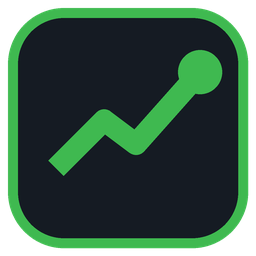
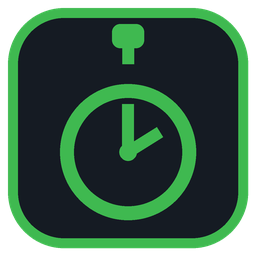
İkon tasarımını kronometreye çevir
Trend çizgisi motifi bir zaman takip uygulaması için belirsizdi;
aynı koyu/yeşil palette kalarak kurma düğmesi, gövde ve akrep/yelkovanlı
bir kronometre simgesine geçildi. .exe, tepsi, favicon ve kenar çubuğu
markası tek kaynaktan (varliklar/ikon.svg + araclar/ikon_uret.py) güncel
tutuluyor; README ekran görüntüleri yeni ikonla tazelendi.

Changed region(s): [[0.1875, 0.1875, 0.875, 0.875], [0.4375, 0.0938, 0.5938, 0.25]]

diff --git a/templates/taban.html b/templates/taban.html
@@ -14,9 +14,12 @@
       <svg viewBox="0 0 64 64" width="22" height="22" aria-hidden="true">
         <rect x="2" y="2" width="60" height="60" rx="14" fill="#151b23"/>
         <rect x="2" y="2" width="60" height="60" rx="14" fill="none" stroke="#3fb950" stroke-width="2.5"/>
-        <path d="M14 42 L26 30 L34 36 L50 18" fill="none" stroke="#3fb950"
-              stroke-width="5.5" stroke-linecap="round" stroke-linejoin="round"/>
-        <circle cx="50" cy="18" r="5.5" fill="#3fb950"/>
+        <rect x="28" y="6" width="8" height="6" rx="2" fill="#3fb950"/>
+        <line x1="32" y1="12" x2="32" y2="16" stroke="#3fb950" stroke-width="3" stroke-linecap="round"/>
+        <circle cx="32" cy="38" r="17" fill="none" stroke="#3fb950" stroke-width="3.5"/>
+        <line x1="32" y1="38" x2="32" y2="26" stroke="#3fb950" stroke-width="3" stroke-linecap="round"/>
+        <line x1="32" y1="38" x2="40" y2="33" stroke="#3fb950" stroke-width="3" stroke-linecap="round"/>
+        <circle cx="32" cy="38" r="2.2" fill="#3fb950"/>
       </svg>
       <span>Gelişim Takip</span>
     </div>

diff --git a/araclar/ikon_uret.py b/araclar/ikon_uret.py
@@ -31,14 +31,35 @@ def _yuksek_cozunurluklu_gorsel():
         [olcekle(2), olcekle(2), olcekle(62), olcekle(62)],
         radius=olcekle(14), fill=RENK_ZEMIN, outline=RENK_VURGU, width=olcekle(2.5),
     )
-    cizim.line(
-        [(olcekle(14), olcekle(42)), (olcekle(26), olcekle(30)),
-         (olcekle(34), olcekle(36)), (olcekle(50), olcekle(18))],
-        fill=RENK_VURGU, width=olcekle(5.5), joint="curve",
+    # Kronometre kurma düğmesi (crown) ve gövdeye bağlayan sap.
+    cizim.rounded_rectangle(
+        [olcekle(28), olcekle(6), olcekle(36), olcekle(12)],
+        radius=olcekle(2), fill=RENK_VURGU,
     )
-    r = olcekle(5.5)
+    cizim.line(
+        [(olcekle(32), olcekle(12)), (olcekle(32), olcekle(16))],
+        fill=RENK_VURGU, width=olcekle(3),
+    )
+    # Kronometre gövdesi.
+    r_govde = olcekle(17)
     cizim.ellipse(
-        [olcekle(50) - r, olcekle(18) - r, olcekle(50) + r, olcekle(18) + r],
+        [olcekle(32) - r_govde, olcekle(38) - r_govde,
+         olcekle(32) + r_govde, olcekle(38) + r_govde],
+        outline=RENK_VURGU, width=olcekle(3.5),
+    )
+    # Akrep (12 yönü) ve yelkovan (~2 yönü).
+    cizim.line(
+        [(olcekle(32), olcekle(38)), (olcekle(32), olcekle(26))],
+        fill=RENK_VURGU, width=olcekle(3),
+    )
+    cizim.line(
+        [(olcekle(32), olcekle(38)), (olcekle(40), olcekle(33))],
+        fill=RENK_VURGU, width=olcekle(3),
+    )
+    r_merkez = olcekle(2.2)
+    cizim.ellipse(
+        [olcekle(32) - r_merkez, olcekle(38) - r_merkez,
+         olcekle(32) + r_merkez, olcekle(38) + r_merkez],
         fill=RENK_VURGU,
     )
     return gorsel
